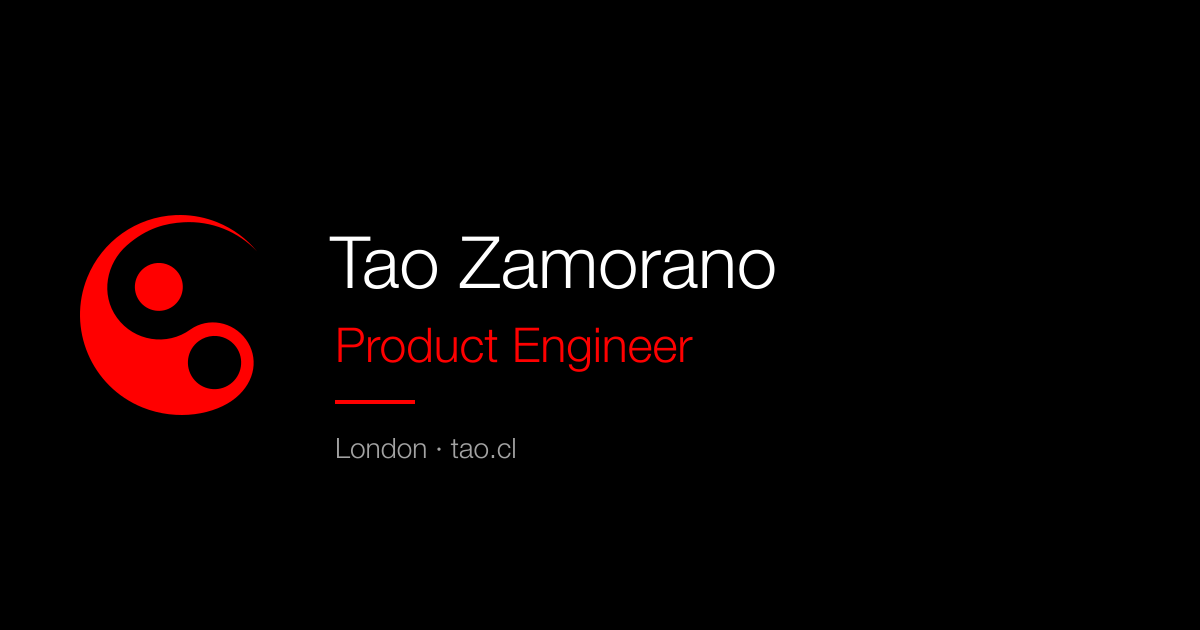
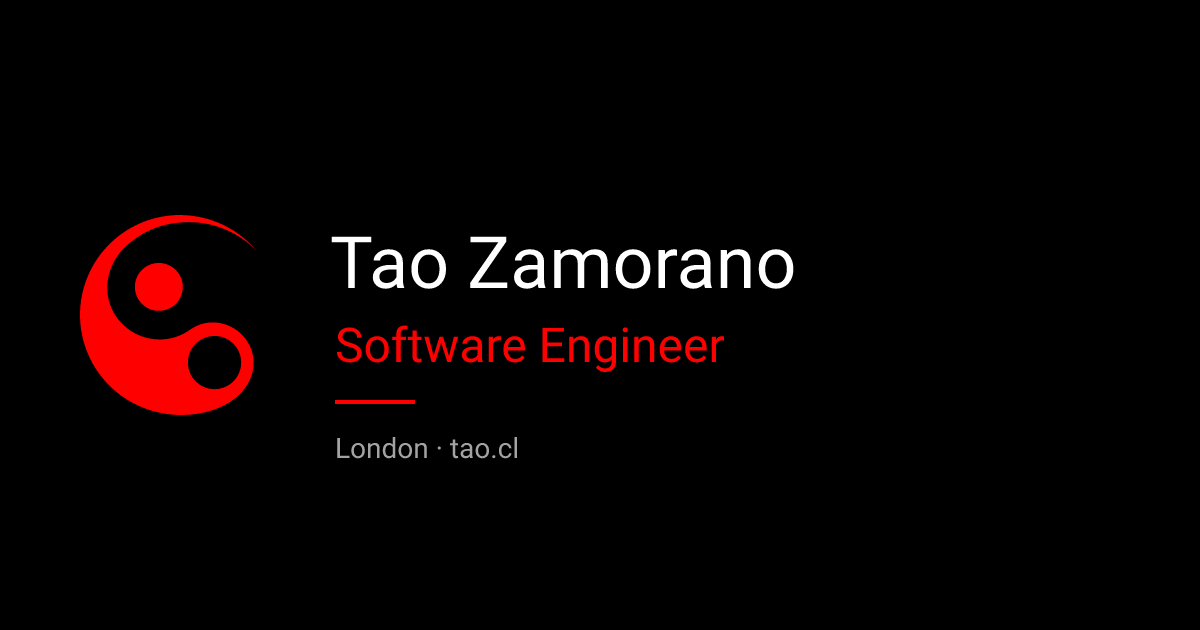
Use Software Engineer title consistently

Changed region(s): [[0.2775, 0.3619, 0.6783, 0.4825], [0.2775, 0.5127, 0.6167, 0.6032], [0.2775, 0.6937, 0.4317, 0.7238]]

diff --git a/index.html b/index.html
@@ -218,7 +218,7 @@
                 <h3>Coca-Cola Share a Coke</h3>
                 <p class="year">Front-end developer at M10c · 2025</p>
                 <p>
-                  Frontend developer on a team-led React/TypeScript application
+                  Front-end developer on a team-led React/TypeScript application
                   for Coca-Cola's international Share a Coke campaign. Built the
                   personalisation forms, 2D customised-product previews,
                   multilingual interfaces and responsive layouts that let people

diff --git a/features/role-title.md b/features/role-title.md
@@ -1,0 +1,16 @@
+# Public role title
+
+The canonical public role title is **Software Engineer**. Keep it identical in
+the places that state Tao's current role:
+
+- `index.html`: document title, meta description, Open Graph and Twitter tags,
+  JSON-LD `jobTitle`, and the hero paragraph.
+- `src/img/og.svg`: the social card source, rendered to `public/og.png`.
+- `package.json` description and the README introduction.
+
+Historical roles under Selected work keep the titles Tao actually held, such as
+Mid-Level Engineer, Front-end developer, Developer and Web and IoT developer.
+
+The linked CV is a separate document titled _Frontend Software Engineer_; its
+filename and contents use that more specific title and should not be renamed
+without updating the PDF itself.

diff --git a/issues/commercial-project-details-need-input.md b/issues/commercial-project-details-need-input.md
@@ -2,7 +2,7 @@
 
 ## What was observed
 
-The site now links to the Product Engineer CV (October 2026) and lists the Hyve
+The site now links to the Frontend Software Engineer CV (October 2026) and lists the Hyve
 Managed Hosting role, so the CV and older resume files are no longer in question.
 The CV records what each employer did in general terms but not what Tao
 personally owned on each portfolio project. The site therefore describes the

diff --git a/README.md b/README.md
@@ -1,6 +1,6 @@
 # tao.cl
 
-Personal portfolio for [Tao Zamorano](https://tao.cl/), a London-based Product
+Personal portfolio for [Tao Zamorano](https://tao.cl/), a London-based Software
 Engineer with a commercial background in frontend and backend web development.
 
 The site is a single, statically built page. It presents selected commercial
